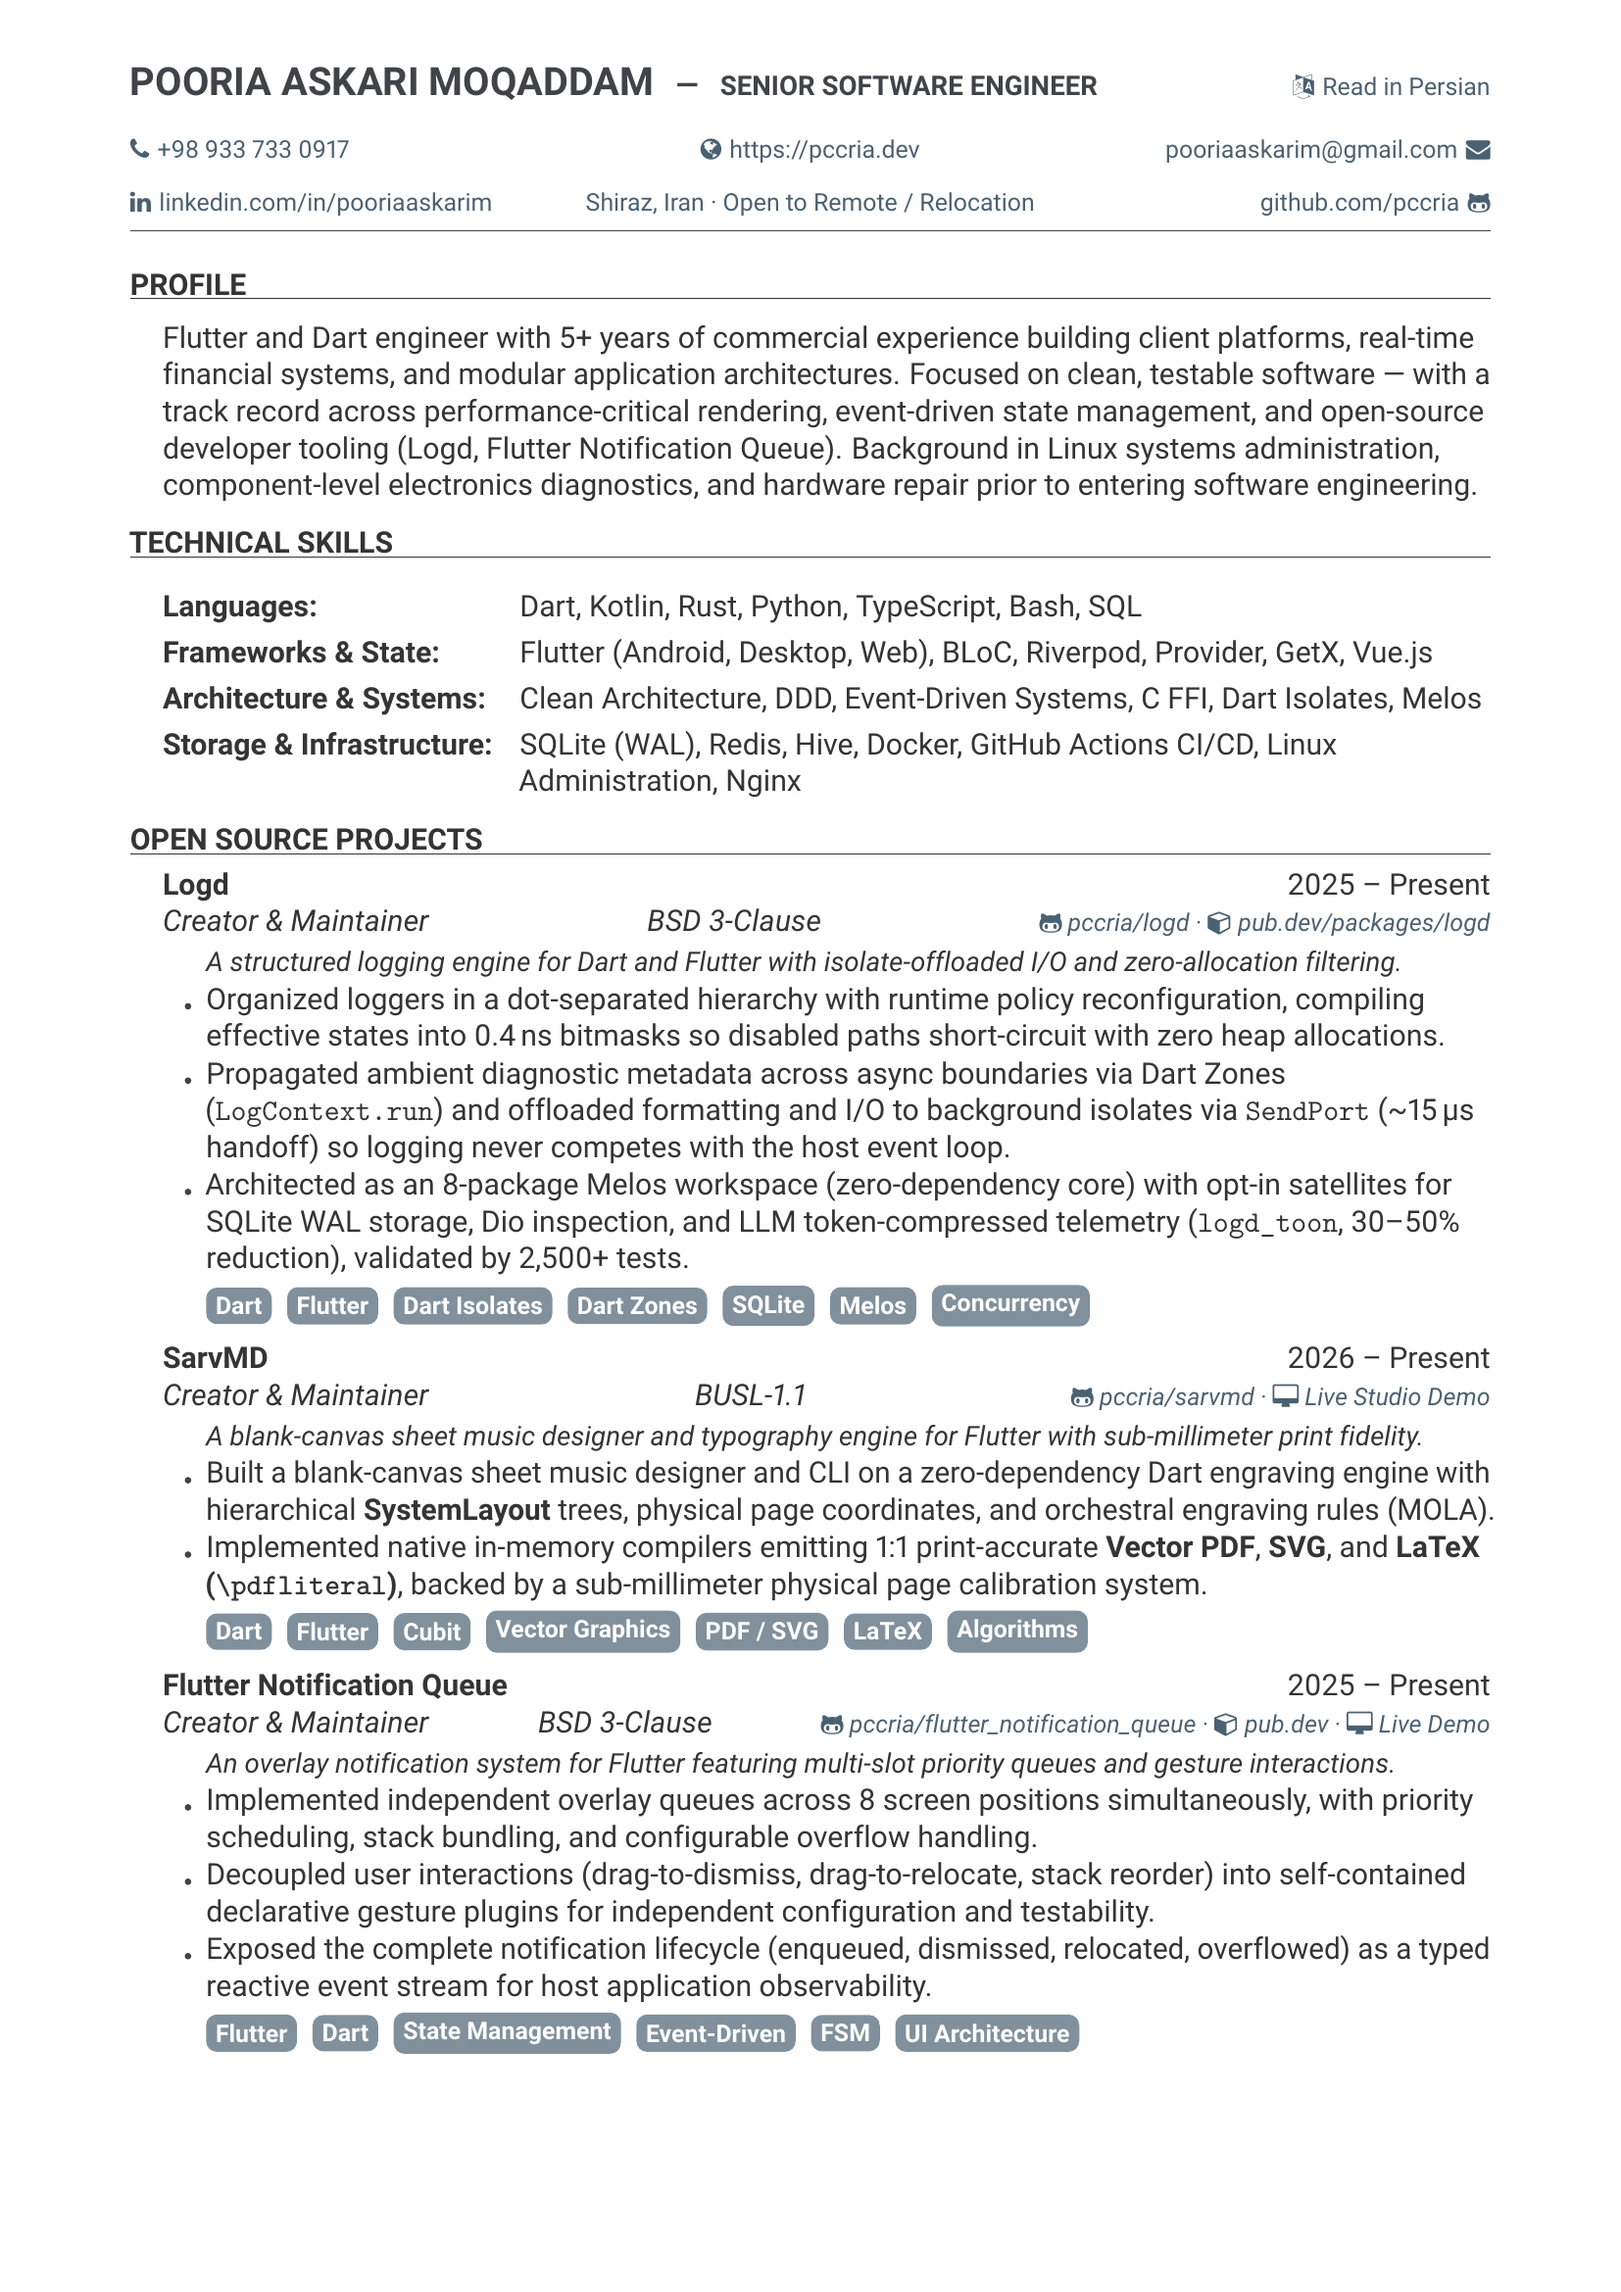
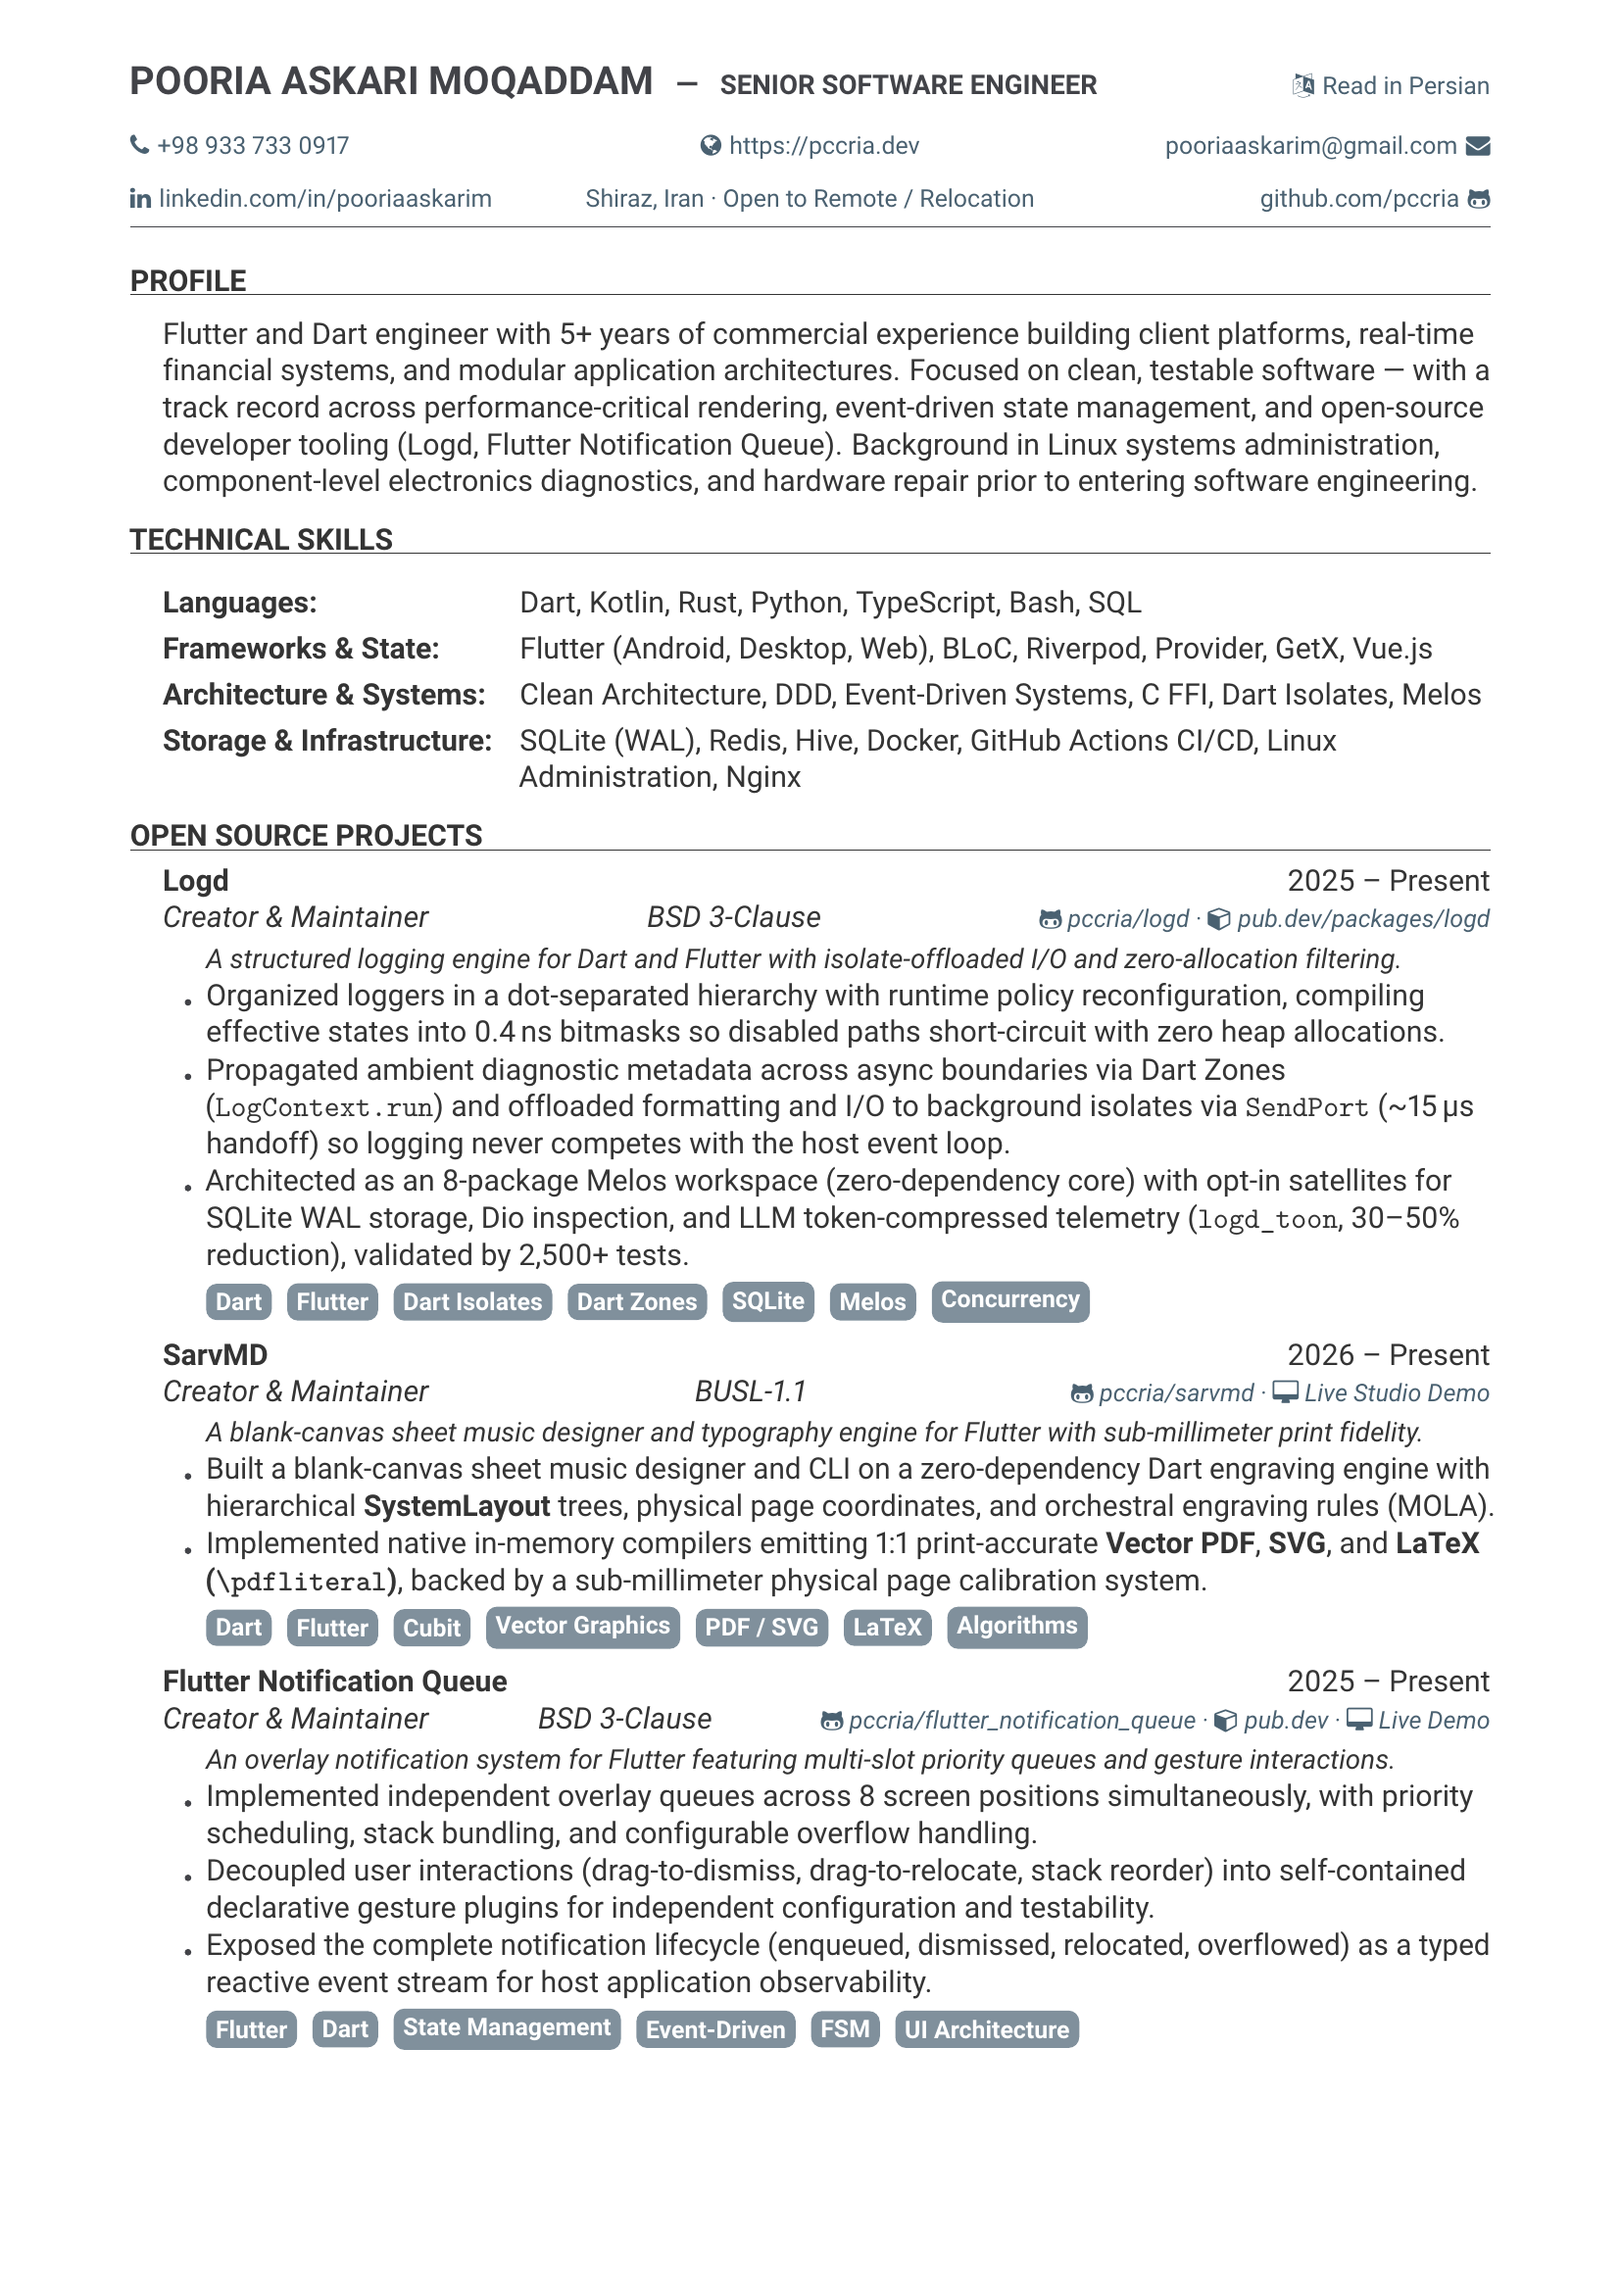
fix(ci): add DocumentMetadata and UseMathForPositioningText fallback for TeXLive 2026 compatibility

diff --git a/resume/resume_fa.tex b/resume/resume_fa.tex
@@ -1,3 +1,4 @@
+\DocumentMetadata{}
 %%%%%%%%%%%%%%%%%%%%%%%%%%%%%%%%%%%%%%%%%
 % Medium Length Professional CV - Persian Edition
 % LaTeX Template
